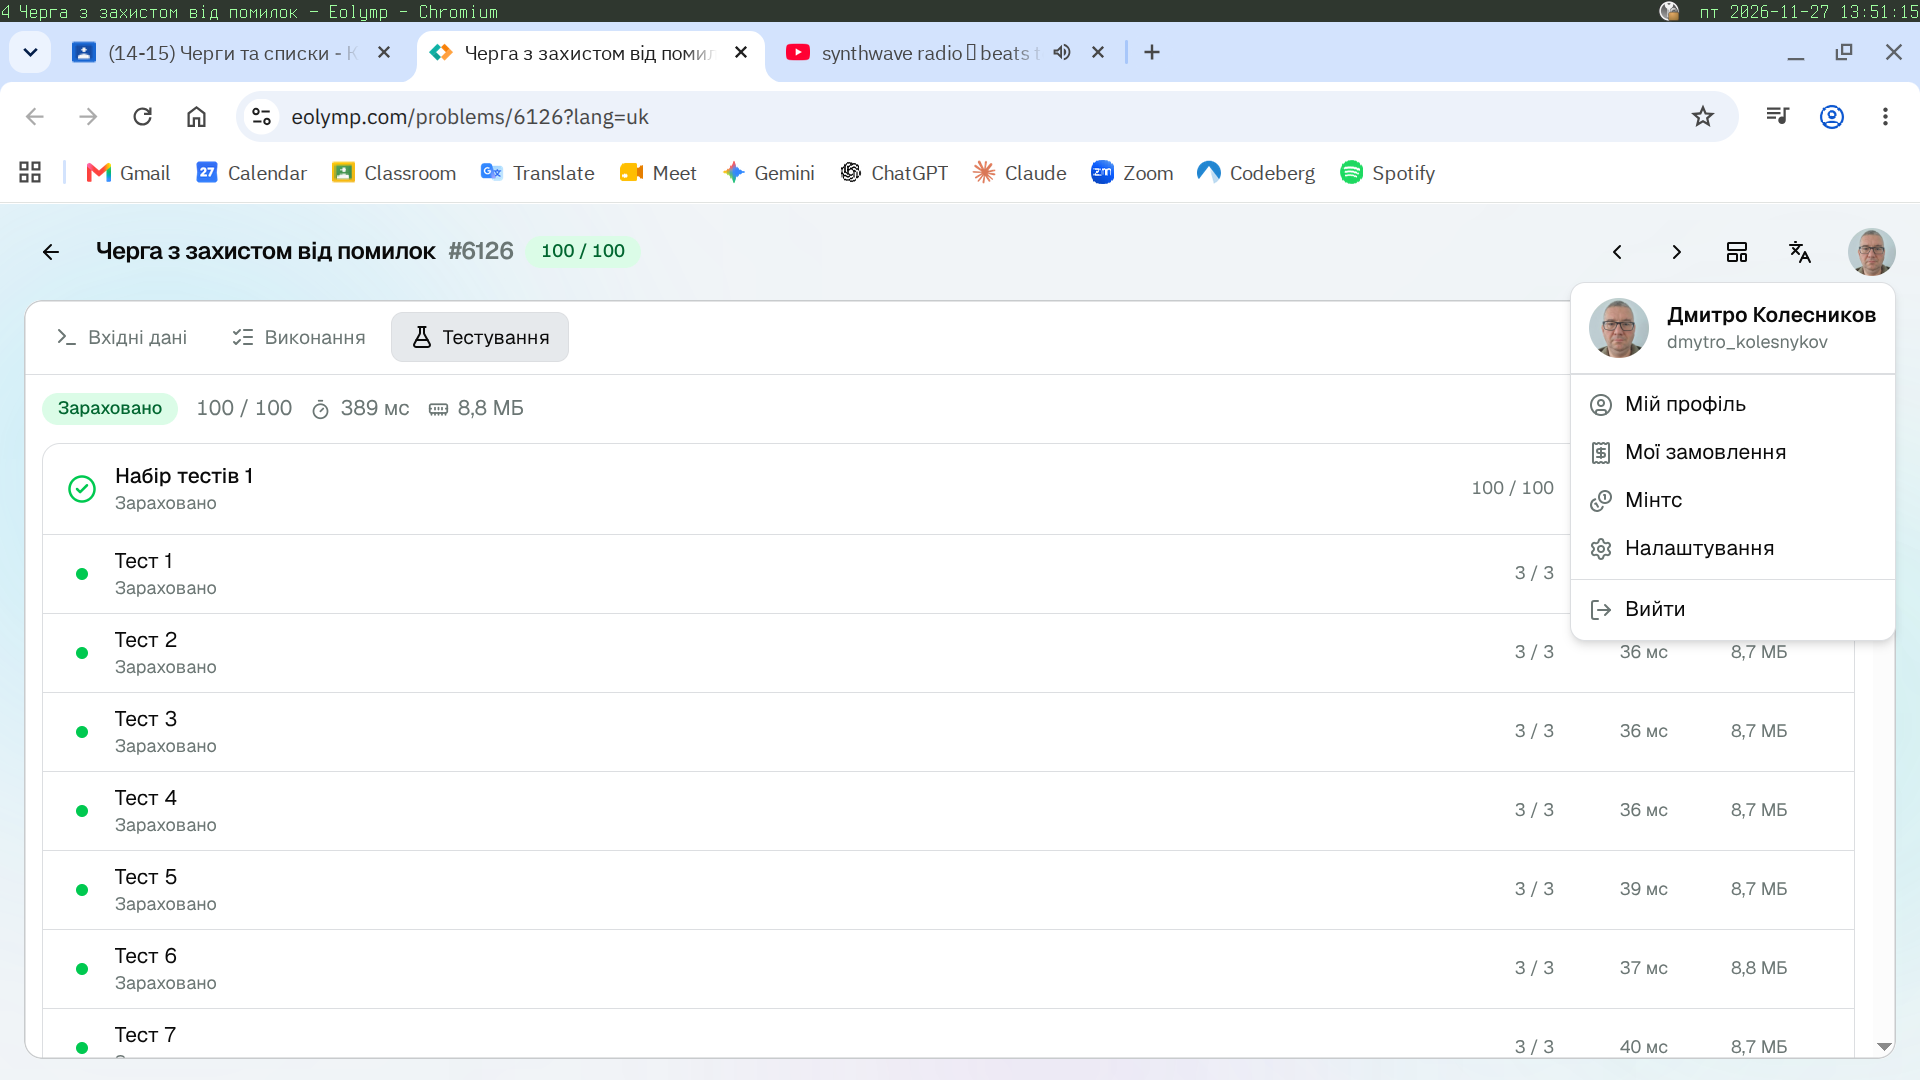
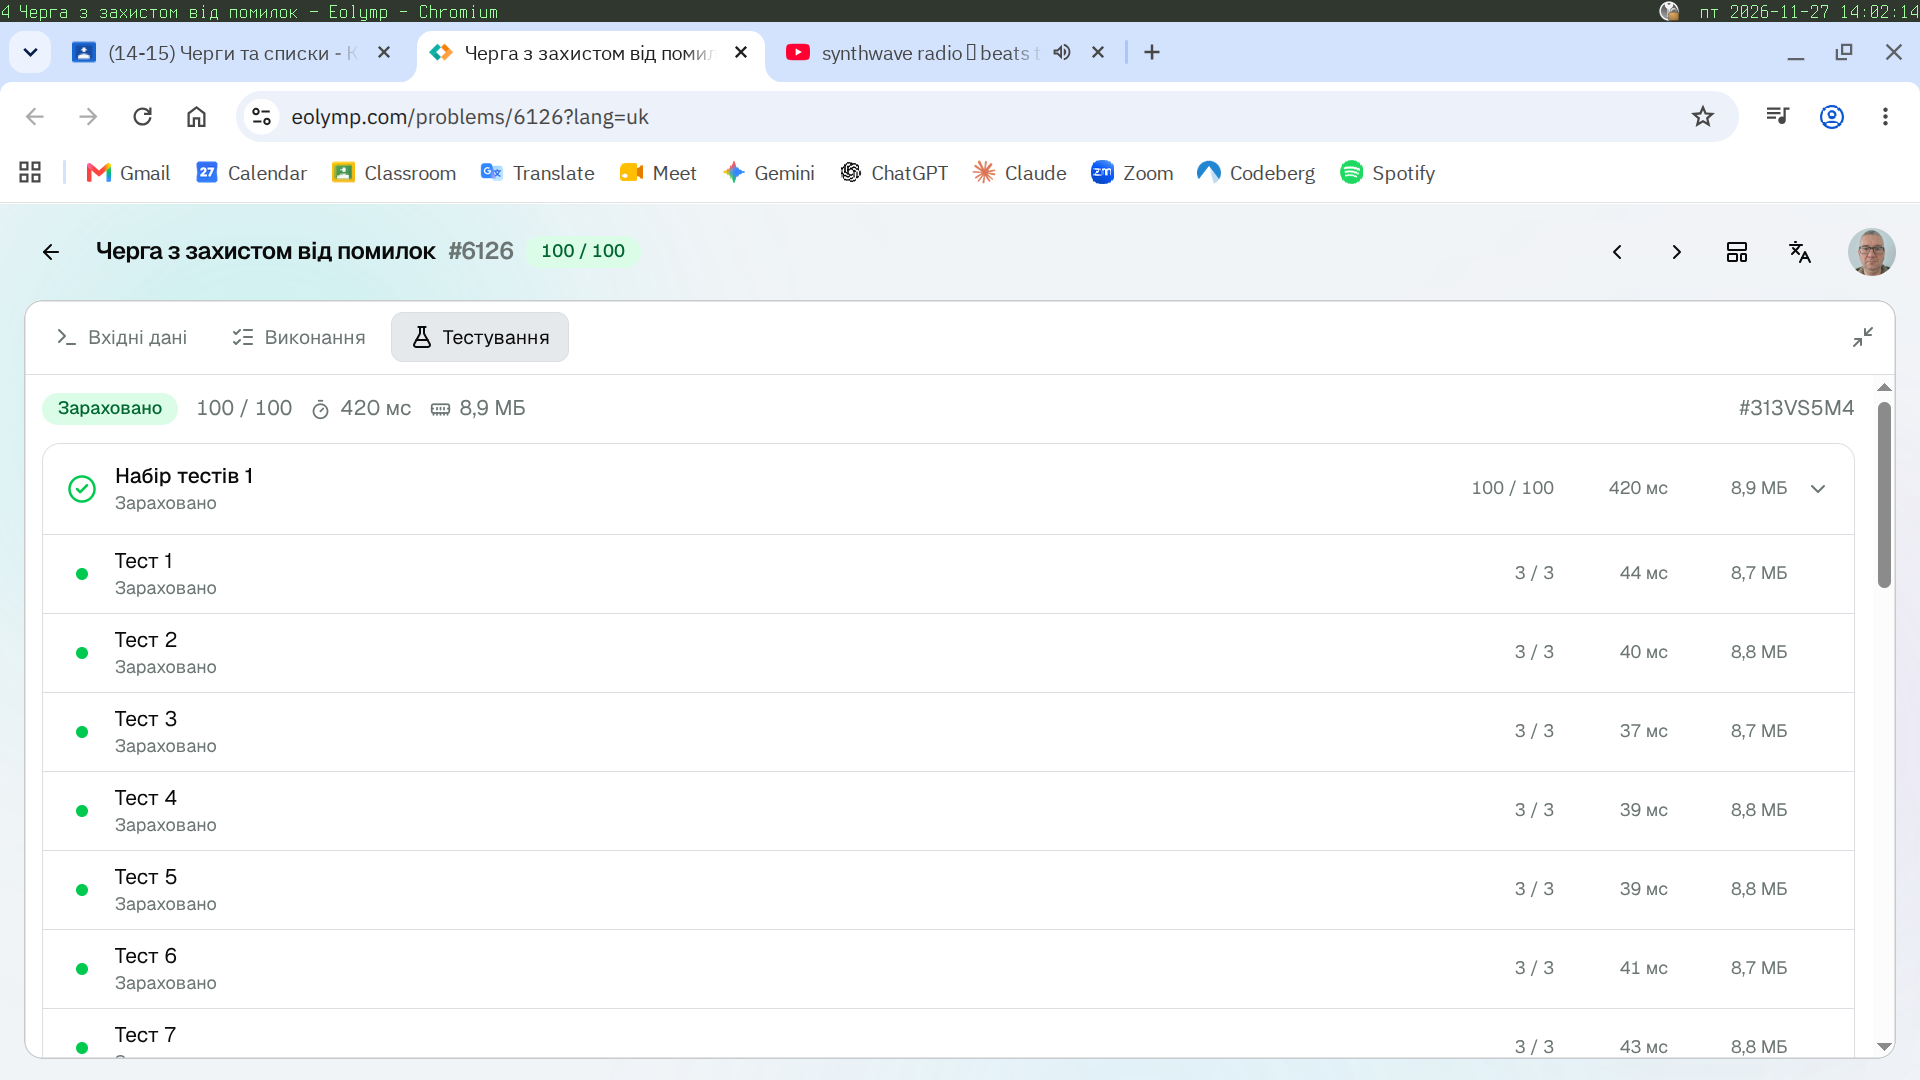
Lab 07, task 14.5: follow the instructions

diff --git a/lab07-queues/t14_05_e6126.py b/lab07-queues/t14_05_e6126.py
@@ -1,28 +1,74 @@
 #!/usr/bin/env python3
 
 # https://eolymp.com/problems/6126
+# Вказівка. Реалізувати чергу як рекурсивну структуру.
 
-queue = []
-while True:
-    try:
-        cmd, arg = input(), None
-    except EOFError:
-        break
-    if ' ' in cmd:
-        cmd, arg = cmd.split(' ')
-    match cmd:
-        case 'push':
-            queue.append(arg)       
-            print('ok')
-        case 'pop':
-            print(queue.pop(0) if len(queue) else 'error')
-        case 'front':
-            print(queue[0] if len(queue) else 'error')
-        case 'size':
-            print(len(queue))
-        case 'clear':
-            queue = []
-            print('ok')
-        case 'exit':
-            print('bye')
+class Node:
+    def __init__(self, value):
+        self.value = value
+        self.next = None
+
+
+class Queue:
+    def __init__(self):
+        self.head = None
+        self.tail = None
+        self.size = 0
+
+    def push(self, value):
+        node = Node(value)
+
+        if self.size:
+            self.tail.next = node
+        else:
+            self.head = node
+
+        self.tail = node
+        self.size += 1
+
+    def pop(self):
+        if not self.size:
+            return None
+
+        value = self.head.value
+        self.head = self.head.next
+        self.size -= 1
+
+        if not self.head:
+            self.tail = None
+
+        return value
+
+    def front(self):
+        return self.head.value if self.head else None
+
+    def clear(self):
+        self.head = self.tail = None
+        self.size = 0
+
+if __name__ == '__main__':
+    q = Queue()
+
+    while True:
+        try:
+            cmd, arg = input(), None
+        except EOFError:
             break
+        if ' ' in cmd:
+            cmd, arg = cmd.split(' ')
+        match cmd:
+            case 'push':
+                q.push(arg)
+                print('ok')
+            case 'pop':
+                print(q.pop() or 'error')
+            case 'front':
+                print(q.front() or 'error')
+            case 'size':
+                print(q.size)
+            case 'clear':
+                q.clear()
+                print('ok')
+            case 'exit':
+                print('bye')
+                break
